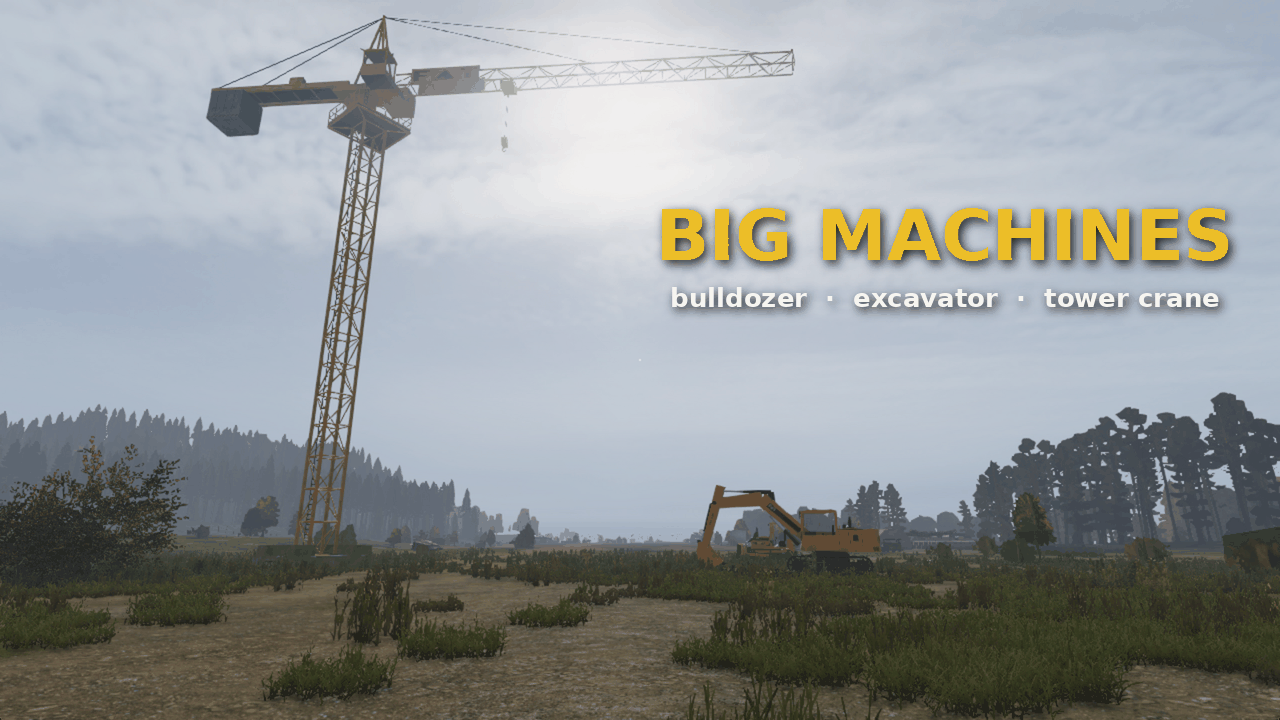
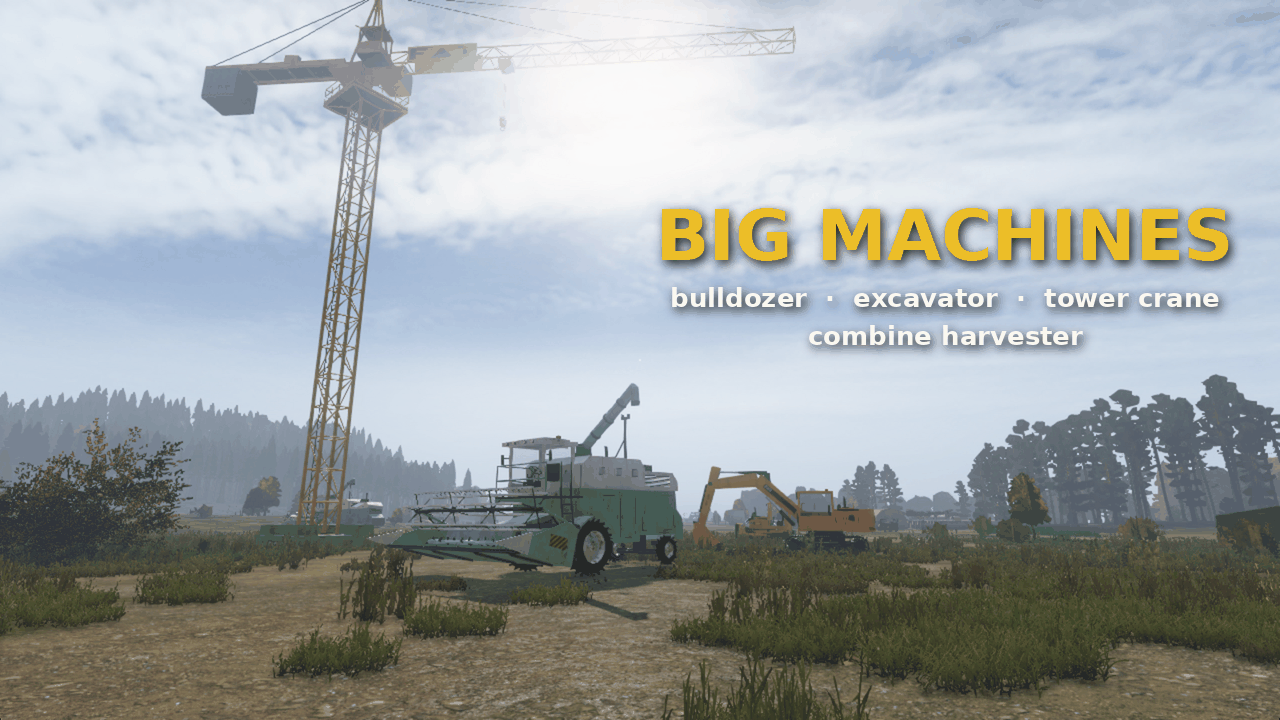
v0.2: combine harvester
Changelog dated; the Workshop title image retaken at the Balota test site with a combine in
front, its unloading auger out, and the combine harvester added to the machine list.
Headless suite 76 ok.

diff --git a/BigMachines/CHANGELOG.md b/BigMachines/CHANGELOG.md
@@ -1,6 +1,6 @@
 # Changelog
 
-## 0.2 (unreleased)
+## 0.2 (2026-11-26)
 
 - Combine harvester: the map's old green-and-cream combine, restored. Real wheels, steers
   with its back wheels, three gears; raise and lower the header, swing the unloading auger
